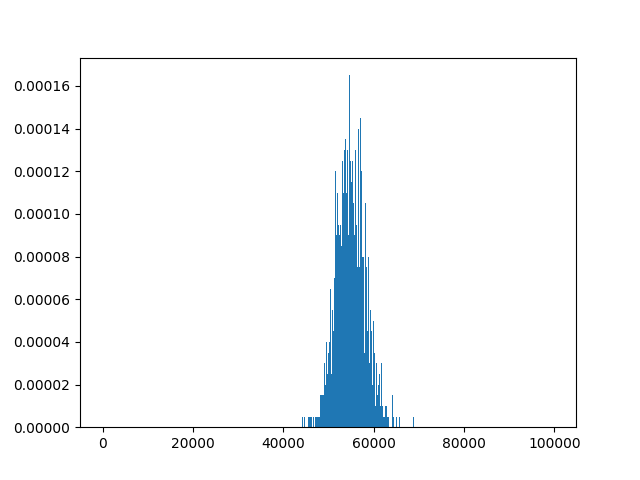
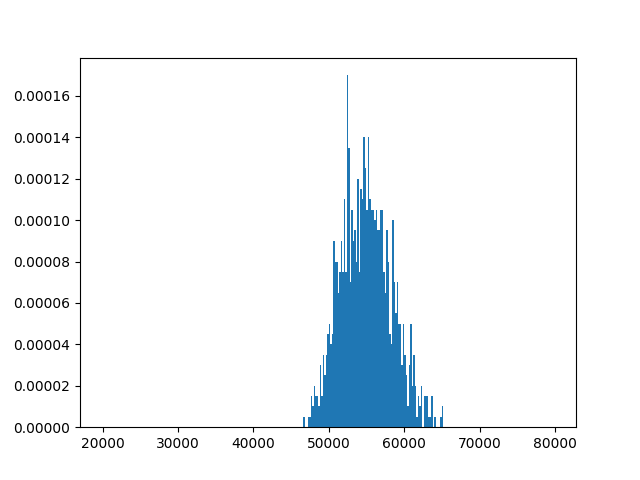
Made some better graphs

diff --git a/lab5/median_income_graphing.py b/lab5/median_income_graphing.py
@@ -8,7 +8,7 @@ import pandas as pd
 
 incomes = pd.read_csv('lab5/medIncome.csv')
 
-def central_limit_histogram(incomes, samples, trials, filen, directory):
+def central_limit_histogram(incomes, samples, trials, limit1, limit2, bin, filen, directory):
     assert type(samples) == int, (str(samples) + ' must be a positive integer!')
     assert type(trials) == int, (str(trials) + ' must be a positive integer!')
 
@@ -32,14 +32,14 @@ def central_limit_histogram(incomes, samples, trials, filen, directory):
     if not os.path.exists('Graphs/'+directory):
         os.makedirs('Graphs/'+directory)
 
-    graphing.makeHist(sampleMeans, np.arange(0,100000,200), (str(directory)+'/'+filen))
+    graphing.makeHist(sampleMeans, np.arange(limit1,limit2,bin), (str(directory)+'/'+filen))
 
 if __name__ == '__main__':
-    central_limit_histogram(incomes, 50, 100, "normal50.png", "la_incomes_normals")
-    central_limit_histogram(incomes, 100, 100, "normal100.png", "la_incomes_normals")
+    central_limit_histogram(incomes, 50, 100, 20000, 80000, 200, "normal50.png", "la_incomes_normals")
+    central_limit_histogram(incomes, 100, 100, 20000, 80000, 200, "normal100.png", "la_incomes_normals")
 
-    central_limit_histogram(incomes, 500, 100, "normal500.png", "la_incomes_normals")
-    central_limit_histogram(incomes, 1000, 100, "normal1000.png", "la_incomes_normals")
+    central_limit_histogram(incomes, 500, 100, 20000, 80000, 200, "normal500.png", "la_incomes_normals")
+    central_limit_histogram(incomes, 1000, 100, 20000, 80000, 200, "normal1000.png", "la_incomes_normals")
     
-    central_limit_histogram(incomes, 5000, 100, "normal5000.png", "la_incomes_normals")
-    central_limit_histogram(incomes, 10000, 100, "normal10000.png", "la_incomes_normals")
+    central_limit_histogram(incomes, 5000, 100, 20000, 80000, 200, "normal5000.png", "la_incomes_normals")
+    central_limit_histogram(incomes, 10000, 100, 20000, 80000, 200, "normal10000.png", "la_incomes_normals")
